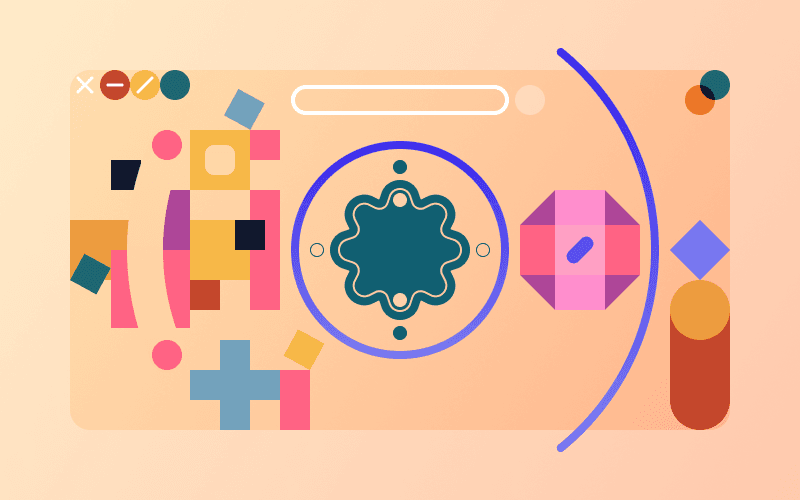
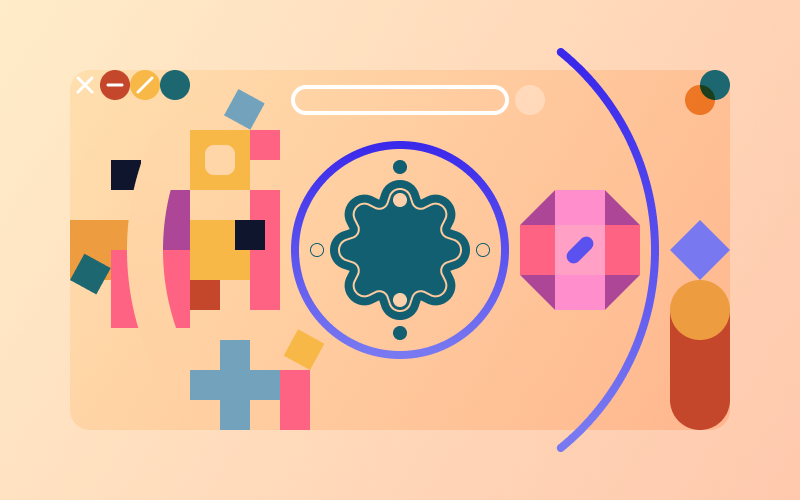
added and changed copy + translation and images

Changed region(s): [[0.1875, 0.66, 0.25, 0.75], [0.1875, 0.24, 0.25, 0.33], [0.875, 0.15, 0.9062, 0.21]]

diff --git a/notthebrief.html b/notthebrief.html
@@ -20,7 +20,7 @@
   <meta name="keywords" content="UX, Design, Designer, Portfolio">
   <meta name="author" content="Mathieu Nauleau">
 
-  <title>Daily UI</title>
+  <title>Not the brief.</title>
 
   <!-- Favicon -->
   <link href="assets/img/favicon.ico" rel="icon">
@@ -149,7 +149,7 @@
         </div>
 
         <div class="col-lg-8 col-sm-12 px-lg-5">
-          <h3>
+          <h3 data-i18n="notthebrief.h3_1">
             No client, no constraints, just ideas that won't stop spinning until you build them. From vague ideas to
             vibe-coded prototypes, this is my 'What if' section turned into approximate code that actually work.
             Exploring and learning altogether.
@@ -163,7 +163,7 @@
     <section class="portfolio-description container-xl col-lg-9">
       <div class="sub-section">
         <h2>Commeat — A personal cookbook, versioned like code</h2>
-        <p>
+        <p data-i18n="notthebrief.p5">
           I wanted my recipes in one place — but not another Notion database. So I built Commeat: every recipe is a
           plain Markdown file synced to a GitHub repo I own. Each edit is a commit, each adaptation a fork — the same
           model developers use, applied to a family recipe.
@@ -176,20 +176,22 @@
         </a>
         <br><br>
         <p>
-          <strong>Tools:</strong> React/TypeScript, Tailwind CSS, GitHub API, Claude Code
+          <strong data-i18n="general.tool">Tools:</strong>
+          React/TypeScript, Tailwind CSS, GitHub API, Claude Code
         </p>
         <img loading="lazy" src="assets/img/portfolio/project-notthebrief/commeat.png" alt="image puzzle">
       </div>
 
       <div class="sub-section">
         <h2>Unblending Blender 3D</h2>
-        <p>
+        <p data-i18n="notthebrief.p7">
           Blender's complexity is a feature, not a bug—it's what makes it so powerful. But that density shouldn't be the
           barrier to entry. As a regular user and open-source contributor, I set out to declutter this world-class tool:
           removing the noise, surfacing the essential, and building an interface that gets out of your way so you can
           focus on the 3D model, not the software itself.
         </p>
-        <p>The result strips away the noise and guides users toward what matters. See the before and after below.</p>
+        <p data-i18n="notthebrief.p8">The result strips away the noise and guides users toward what matters. See the
+          before and after below.</p>
 
         <img loading="lazy" src="assets/img/portfolio/project-notthebrief/blender3d-key-features.png"
           alt="image puzzle">
@@ -212,6 +214,19 @@
           <span class="handle draggable"></span>
         </div>
       </div>
+
+      <div class="sub-section">
+        <h2>More to come, what will it be?</h2>
+        <p data-i18n="notthebrief.p9">
+          A website that generates a fictional city based on your browser history? A browser extension that turns boring
+          error messages into tiny illustrated quests? A collaborative music player where every listener can mutate the
+          soundtrack in real time by adding strange rules instead of songs? ...
+        </p>
+        <p>
+          ✴ Discombobulating... Concocting... Moseying... Whirring...
+        </p>
+      </div>
+
     </section>
     <!-- ======= End Portfolio Development Section ======= -->
 

diff --git a/rise.html b/rise.html
@@ -198,7 +198,7 @@
           <img loading="lazy" src="assets/img/portfolio/project6/view-10.png" alt="illustration of process">
         </div>
         <div class="col-lg-8 col-sm-12">
-          <h2>➀ Products and processes study</h2>
+          <h2>01 — Products and processes study</h2>
           <p>
             We first conducted a detailed study of all related processes, from
             the backend processes (at the catering company, ...) to the
@@ -215,7 +215,7 @@
           <img loading="lazy" src="assets/img/portfolio/project6/view-01.png" alt="illustratio of business plan">
         </div>
         <div class="col-lg-8 col-sm-12">
-          <h2>➁ Stakeholder &amp; ecosystem analysis</h2>
+          <h2>02 — Stakeholder &amp; ecosystem analysis</h2>
           <p>
             By interviewing experts and several stakeholders, we were able to
             map and highlight their needs, powers, and interests to one
@@ -231,7 +231,7 @@
           <img loading="lazy" src="assets/img/portfolio/project6/view-03.png" alt="illustration of connected themes">
         </div>
         <div class="col-lg-8 col-sm-12">
-          <h2>➂ Macro &amp; Micro trend research</h2>
+          <h2>03 — Macro &amp; Micro trend research</h2>
           <p>
             Using the scenario planning method and interviewing experts to get
             valuable insights, we analyzed the mega-trends of the world, the

diff --git a/whitelabel.html b/whitelabel.html
@@ -340,7 +340,7 @@
       </div>
 
       <div class="sub-section">
-        <h2 data-i18n="label.section_1foundations">➀ Solid foundations</h2>
+        <h2 data-i18n="label.section_1foundations">01 — Solid foundations</h2>
         <p data-i18n="label.section_1foundations_desc">
           To make our system scalable, we had to design and code strong
           foundations. These would serve as a framework to build more complex
@@ -350,7 +350,7 @@
       </div>
 
       <div class="sub-section">
-        <h2 data-i18n="label.section_2components">➁ 'Headless' components</h2>
+        <h2 data-i18n="label.section_2components">02 — 'Headless' components</h2>
         <p data-i18n="label.section_2components_desc">
           We've designed unstyled components, ready to be themed through tokens, starting with the smallest (buttons,
           labels, lists,
@@ -361,7 +361,7 @@
       </div>
 
       <div class="sub-section">
-        <h2 data-i18n="label.section_3workflows">➂ Workflows / Features</h2>
+        <h2 data-i18n="label.section_3workflows">03 — Workflows / Features</h2>
         <p data-i18n="label.section_3workflows_desc">
           Focusing on core functionalities from a White Label perspective, we avoided brand-specific distractions. This
           increased our speed, consistency, and clarity in communicating stories to the development team.

diff --git a/custom.css b/custom.css
@@ -501,7 +501,7 @@ section {
 }
 
 #project13:hover img {
-  transform: rotate(30deg);
+  transform: rotate(45deg);
 }
 
 .portfolio .portfolio-wrap:hover img {